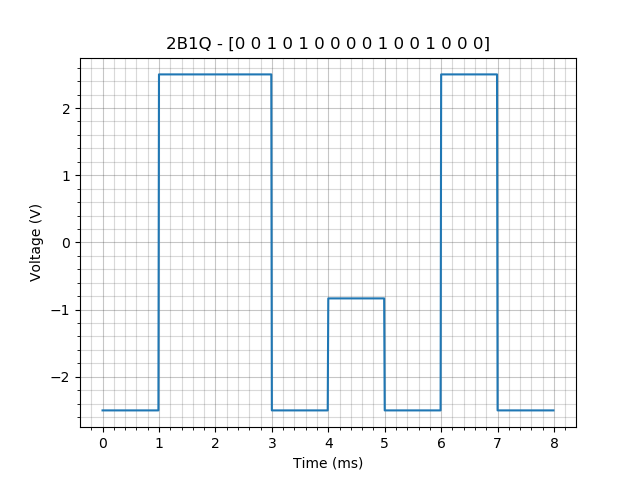
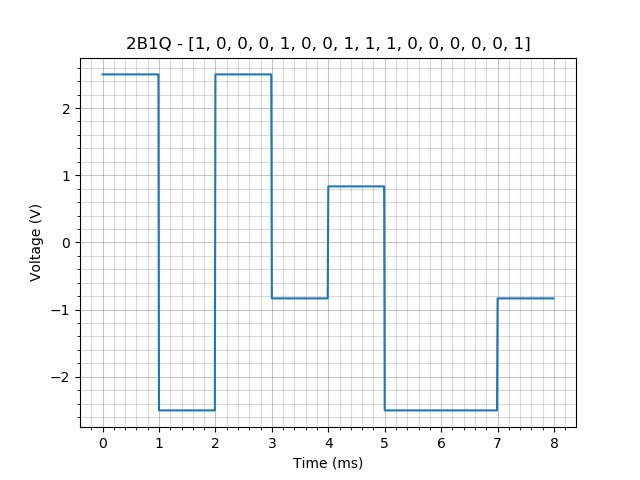
Update images

diff --git a/lineCodeFunctions.py b/lineCodeFunctions.py
@@ -1,6 +1,6 @@
 import numpy as np
 import matplotlib.pyplot as plt
-from matplotlib.ticker import (AutoMinorLocator, MultipleLocator)
+# from matplotlib.ticker import (AutoMinorLocator, MultipleLocator)
 
 
 def bitsGen(size):
@@ -23,19 +23,13 @@ def plotSignal(x,y,bits,title):
     return 0
 
 
-def pulseWaveform(step, bits, Ts, pulses, plot,title):
+def pulseWaveform(step, bits, pulses, plot,title):
     size = len(pulses)
     sizeBits = len(bits)
-
-    if sizeBits*2 == size: 
-        t = np.arange(0, size, step/2)
-    else:
-        t = np.arange(0, size, step)
-
+    t = np.arange(0, size, step)
     size_t = len(t)
     lc = np.zeros(size_t)
     symbolIndex = 1
-    # print(pulses)
 
     for j in range(0, size_t):
         if t[j] >= 0 and t[j] < symbolIndex:
@@ -43,10 +37,10 @@ def pulseWaveform(step, bits, Ts, pulses, plot,title):
         else:
             lc[j] = pulses[symbolIndex]
             if symbolIndex < size-1:
-                symbolIndex = symbolIndex+Ts
+                symbolIndex = symbolIndex+1
                 
     # plot = False
-    if plot == True and sizeBits <=32:          # plot if less or 32 bits
+    if plot == True and sizeBits <=32:        
         plotSignal(t, lc, bits, title)
 
     return lc
@@ -54,21 +48,23 @@ def pulseWaveform(step, bits, Ts, pulses, plot,title):
 ############################ Line codings #############################
 
 
-def unipolarNRZ(bits, step, Ts, plot):
+def unipolarNRZ(bits, step, plot):
+    Ts = 1
     size = len(bits)
     pulses = np.zeros(size)
     amp = 5
     for i in range(0, size):
         if bits[i] == 1:
             pulses[i] = amp
-        else:
-            pulses[i] = 0
+        # else:
+        #     pulses[i] = 0
 
-    lc = pulseWaveform(step, bits, Ts, pulses, plot,"Unipolar NRZ")
+    lc = pulseWaveform(step, bits, pulses, plot,"Unipolar NRZ")
     return lc
 
 
-def unipolarRZ(bits, step, Ts, plot):
+def unipolarRZ(bits, step, plot):
+    Ts = 1
     size = len(bits)
     pulses = np.zeros(size*2)
     amp = 5
@@ -78,16 +74,17 @@ def unipolarRZ(bits, step, Ts, plot):
         if bits[i] == 1:
             pulses[j] = amp
             pulses[j+1] = 0
-        else:
-            pulses[j] = 0
-            pulses[j+1] = 0
+        # else:
+        #     pulses[j] = 0
+        #     pulses[j+1] = 0
         j = j + 2
 
-    lc = pulseWaveform(step, bits, Ts, pulses, plot,"Unipolar RZ")
+    lc = pulseWaveform(step, bits, pulses, plot,"Unipolar RZ")
     return lc
 
 
-def bipolarNRZ(bits, step, Ts, plot):
+def bipolarNRZ(bits, step, plot):
+    Ts = 1
     size = len(bits)
     pulses = np.zeros(size)
     amp = 5
@@ -97,11 +94,12 @@ def bipolarNRZ(bits, step, Ts, plot):
         else:
             pulses[i] = -amp
 
-    lc = pulseWaveform(step, bits, Ts, pulses, plot,"Bipolar NRZ")
+    lc = pulseWaveform(step, bits, pulses, plot,"Bipolar NRZ")
     return lc
 
 
-def bipolarRZ(bits, step, Ts, plot):
+def bipolarRZ(bits, step, plot):
+    Ts = 1
     size = len(bits)
     pulses = np.zeros(size*2)
     amp = 5
@@ -116,11 +114,12 @@ def bipolarRZ(bits, step, Ts, plot):
             pulses[j+1] = 0
         j = j + 2
 
-    lc = pulseWaveform(step, bits, Ts, pulses, plot,"Bipolar RZ")
+    lc = pulseWaveform(step, bits, pulses, plot,"Bipolar RZ")
     return lc
 
 
-def polarQuatNRZ(bits, step, Ts, plot):
+def polarQuatNRZ(bits, step, plot):
+    Ts = 2
     size = int(len(bits)/2)
     pulses = np.zeros(size)
     amp = 3.5
@@ -138,11 +137,12 @@ def polarQuatNRZ(bits, step, Ts, plot):
                 pulses[j] = 3*amp/2
         j = j + 1
         
-    lc = pulseWaveform(step, bits, Ts, pulses, plot,"Polar Quatern NRZ")
+    lc = pulseWaveform(step, bits, pulses, plot,"Polar Quatern NRZ")
     return lc 
 
 
-def NRZSpace(bits, step, Ts, plot):
+def NRZSpace(bits, step, plot):
+    Ts = 1
     size = len(bits)
     pulses = np.zeros(size)
     amp = 5
@@ -158,14 +158,15 @@ def NRZSpace(bits, step, Ts, plot):
     for i in range(0, size):
         if pulses[i] == 1:
             pulses[i] = amp
-        else:
-            pulses[i] = 0
+        # else:
+        #     pulses[i] = 0
 
-    lc = pulseWaveform(step, bits, Ts, pulses, plot,"NRZ Space")
+    lc = pulseWaveform(step, bits, pulses, plot,"NRZ Space")
     return lc 
 
 
-def manchester(bits, step, Ts, plot):
+def manchester(bits, step, plot):
+    Ts = 1
     size = len(bits)
     pulses = np.zeros(size*2)
     amp = 5
@@ -182,11 +183,12 @@ def manchester(bits, step, Ts, plot):
         j = j + 2
 
 
-    lc = pulseWaveform(step, bits, Ts, pulses, plot,"Manchester")
+    lc = pulseWaveform(step, bits, pulses, plot,"Manchester")
     return lc 
 
 
-def hdb3(bits, step, Ts, plot):
+def hdb3(bits, step, plot):
+    Ts = 1
     size = len(bits)
     ami = np.zeros(size)
     V = np.zeros(size)
@@ -223,11 +225,12 @@ def hdb3(bits, step, Ts, plot):
         else:
             zeroCount = 0
 
-    lc = pulseWaveform(step, bits, Ts, pulses, plot,"HDB3")
+    lc = pulseWaveform(step, bits, pulses, plot,"HDB3")
     return lc            
 
 
-def twob1q(bits, step, Ts, plot):  
+def twob1q(bits, step, plot):  
+    Ts = 2
     size = int(len(bits)/2)
     pulses = np.zeros(size)
     amp = 2.5
@@ -245,5 +248,5 @@ def twob1q(bits, step, Ts, plot):
                 pulses[j] = amp
         j = j + 1
         
-    lc = pulseWaveform(step, bits, Ts, pulses, plot,"2B1Q")
+    lc = pulseWaveform(step, bits, pulses, plot,"2B1Q")
     return lc 

diff --git a/lineCodeScript.py b/lineCodeScript.py
@@ -1,38 +1,37 @@
 import lineCodeFunctions as lc
 
 vectorSize = 16  # must be pair
-Ts = 1
 step = 0.01
 
 bits = lc.bitsGen(vectorSize)
-# bits = [1,0,1,1,0,0,0,1]
+bits = [1, 0, 0, 0, 1, 0, 0, 1, 1, 1, 0, 0, 0, 0, 0, 1]
 
 print(bits)
 
-code= lc.unipolarNRZ(bits, step, Ts, True) # True to plot graphics
+code= lc.unipolarNRZ(bits, step, True) # True to plot graphics
 print("unipolarNRZ",code)
 
-code = lc.unipolarRZ(bits, step, Ts, True) 
+code = lc.unipolarRZ(bits, step, True) 
 print("unipolarRZ",code)
 
-code = lc.bipolarNRZ(bits, step, Ts, True) 
+code = lc.bipolarNRZ(bits, step, True) 
 print("bipolarNRZ",code)
 
-code = lc.bipolarRZ(bits, step, Ts, True) 
+code = lc.bipolarRZ(bits, step, True) 
 print("bipolarRZ",code)
 
-code = lc.polarQuatNRZ(bits, step, Ts, True) 
-print("polarQuatNRZ",code)
-
-code = lc.NRZSpace(bits, step, Ts, True) 
+code = lc.NRZSpace(bits, step, True) 
 print("NRZSpace",code)
 
-code = lc.manchester(bits, step, Ts, True) 
+code = lc.manchester(bits, step, True) 
 print("manchester",code)
 
-code = lc.hdb3(bits, step, Ts, True) 
+code = lc.hdb3(bits, step,  True) 
 print("hdb3",code)
 
-code = lc.twob1q(bits, step, Ts, True) 
+code = lc.polarQuatNRZ(bits, step, True) 
+print("polarQuatNRZ",code)
+
+code = lc.twob1q(bits, step, True) 
 print("twob1q",code)
 
